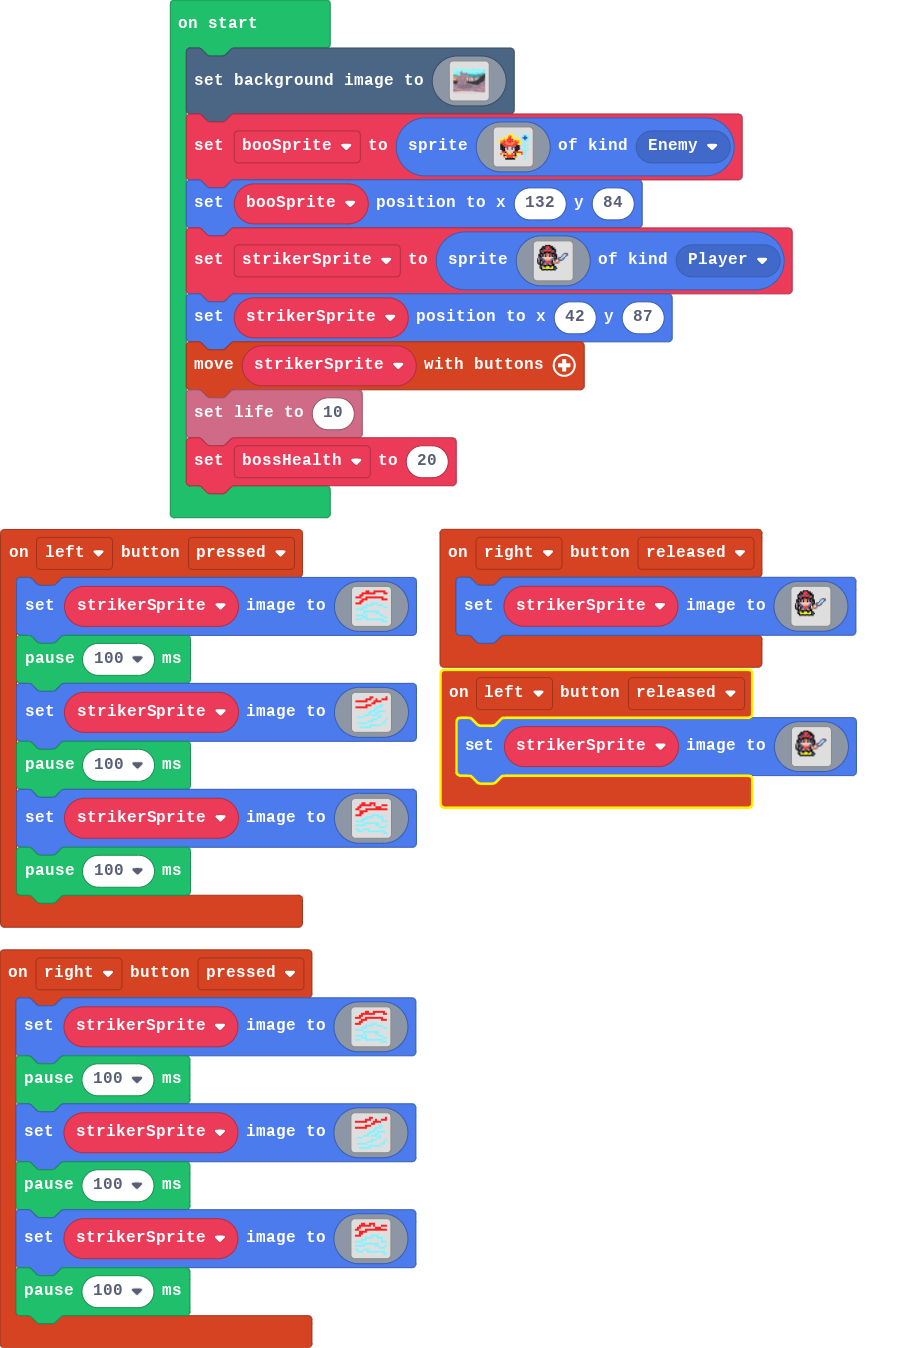
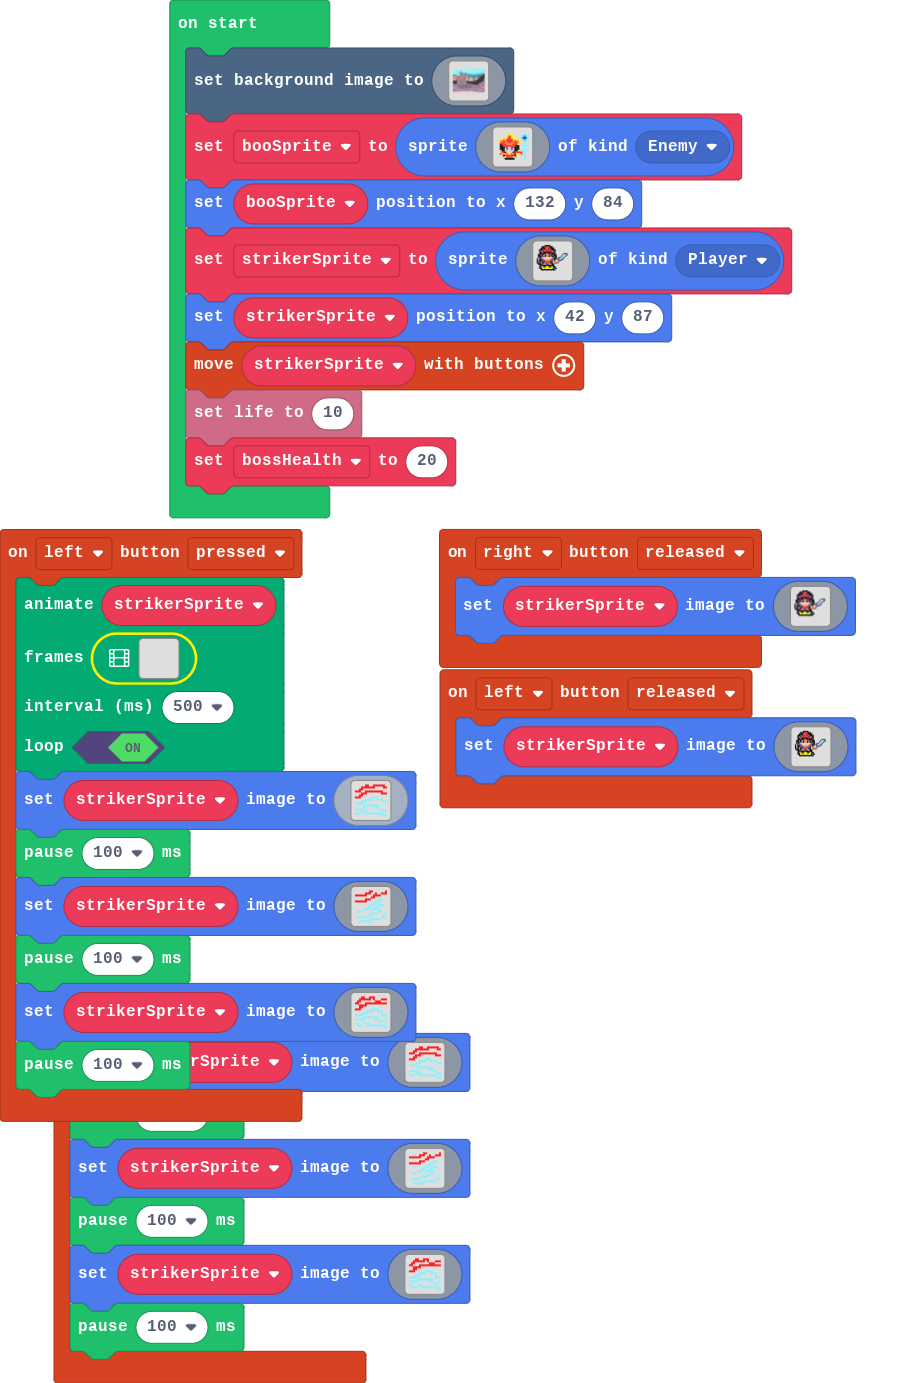
Update main.blocks, main.ts

diff --git a/main.ts b/main.ts
@@ -1,4 +1,44 @@
 controller.left.onEvent(ControllerButtonEvent.Pressed, function () {
+    animation.runImageAnimation(
+    strikerSprite,
+    [img`
+        . . . . . . . . . . . . . . . . 
+        . . . . . . . . . . . . . . . . 
+        . . . . . . . . . . . . . . . . 
+        . . . . . . . . . . . . . . . . 
+        . . . . . . . . . . . . . . . . 
+        . . . . . . . . . . . . . . . . 
+        . . . . . . . . . . . . . . . . 
+        . . . . . . . . . . . . . . . . 
+        . . . . . . . . . . . . . . . . 
+        . . . . . . . . . . . . . . . . 
+        . . . . . . . . . . . . . . . . 
+        . . . . . . . . . . . . . . . . 
+        . . . . . . . . . . . . . . . . 
+        . . . . . . . . . . . . . . . . 
+        . . . . . . . . . . . . . . . . 
+        . . . . . . . . . . . . . . . . 
+        `,img`
+        . . . . . . . . . . . . . . . . 
+        . . . . . . . . . . . . . . . . 
+        . . . . . . . . . . . . . . . . 
+        . . . . . . . . . . . . . . . . 
+        . . . . . . . . . . . . . . . . 
+        . . . . . . . . . . . . . . . . 
+        . . . . . . . . . . . . . . . . 
+        . . . . . . . . . . . . . . . . 
+        . . . . . . . . . . . . . . . . 
+        . . . . . . . . . . . . . . . . 
+        . . . . . . . . . . . . . . . . 
+        . . . . . . . . . . . . . . . . 
+        . . . . . . . . . . . . . . . . 
+        . . . . . . . . . . . . . . . . 
+        . . . . . . . . . . . . . . . . 
+        . . . . . . . . . . . . . . . . 
+        `],
+    500,
+    true
+    )
     strikerSprite.setImage(img`
         . . . . . 2 2 . . 2 2 2 2 2 2 . 
         . . . 2 2 2 2 2 2 2 . . . . 2 2 
